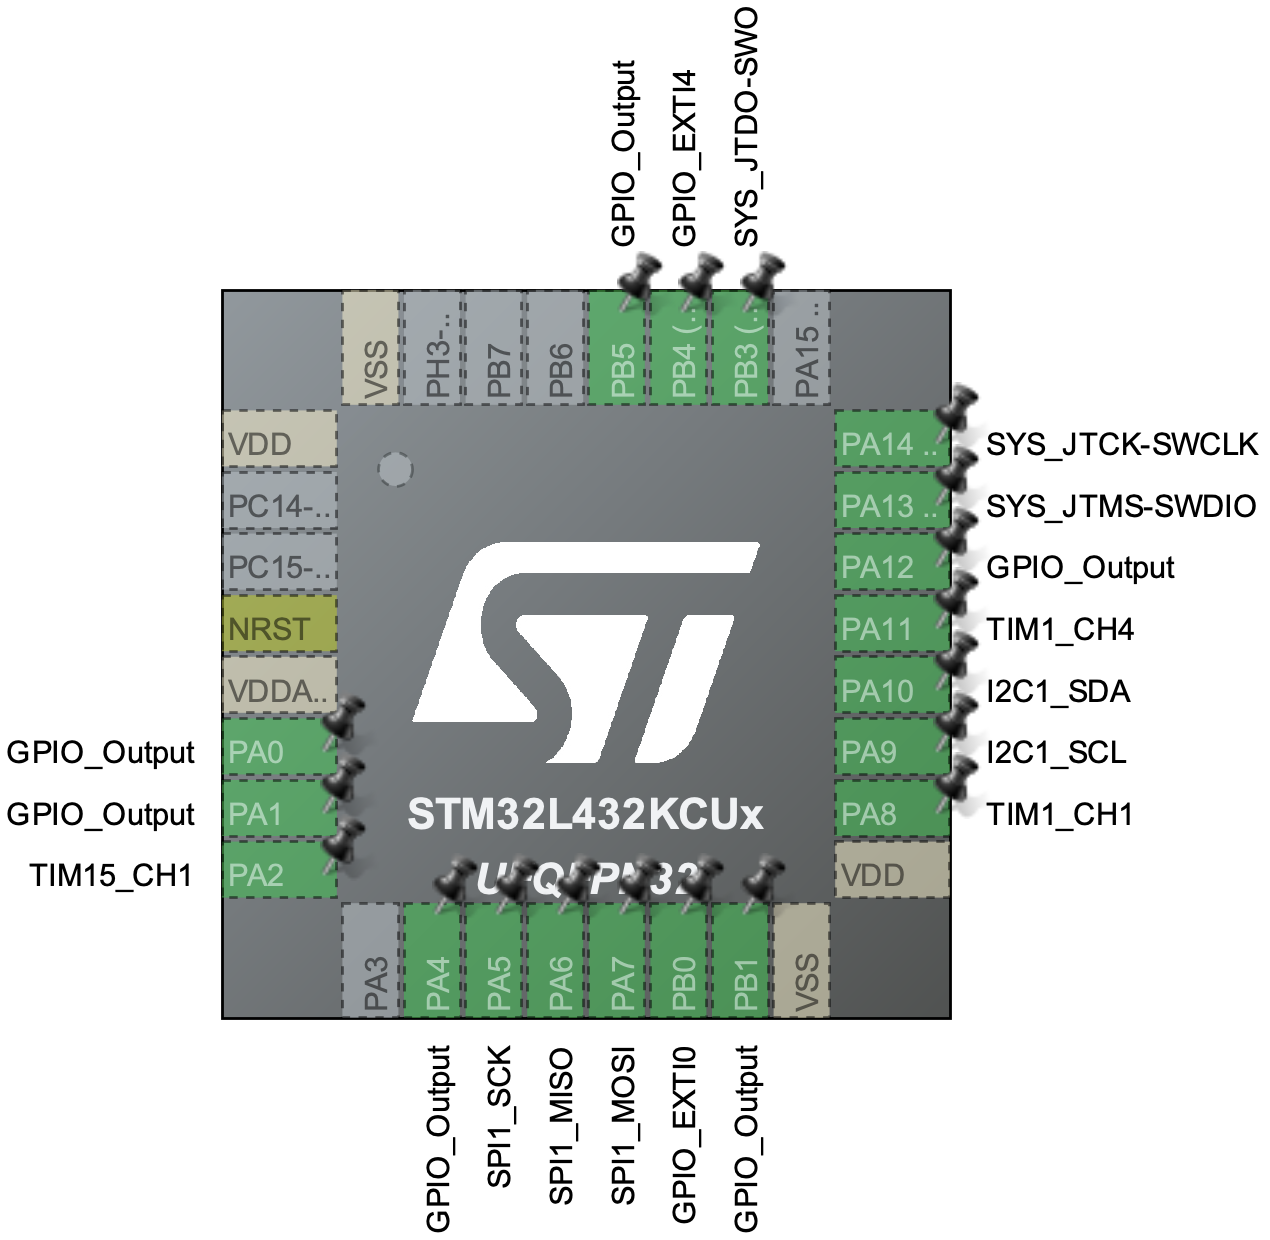
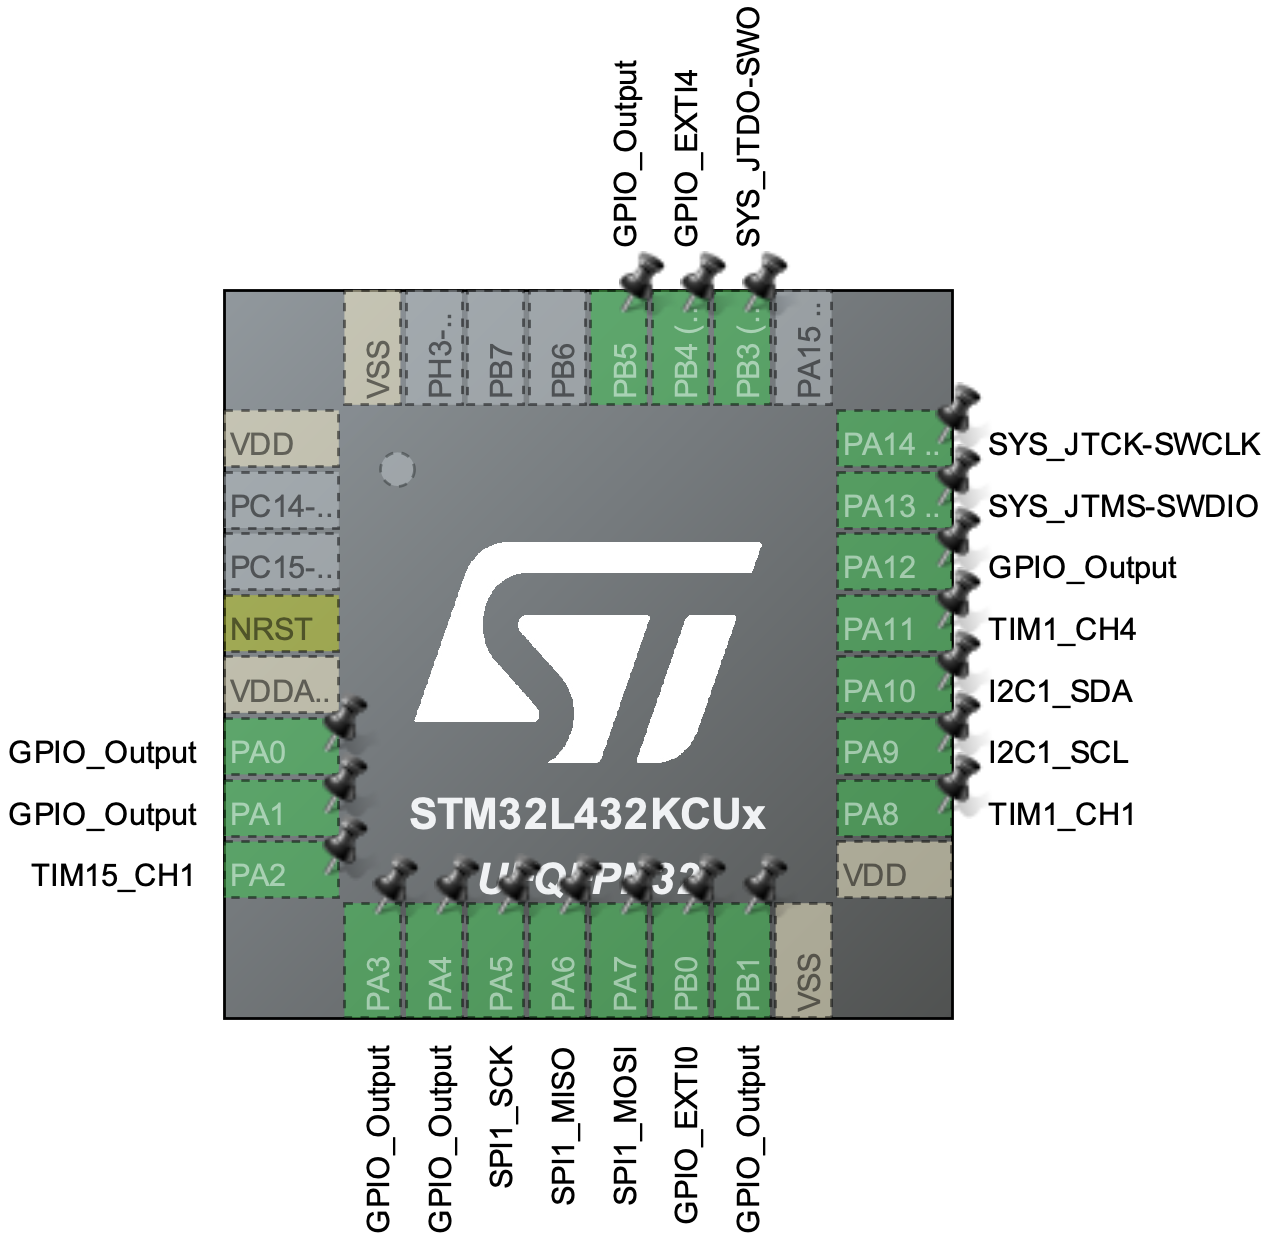
Update docs and pinout

diff --git a/README.md b/README.md
@@ -74,10 +74,14 @@ Terrain and maze solving robot for mechatronics design university course
 | PB1         | `GPIO_Output`           | Set high                       | BNO085 Pin 6: `PS0/Wake`         | Pull low to trigger wake. |
 |             |                         | Hardware pull-up               | BNO085 Pin 5: `PS1`              |                           |
 | PA1         | `GPIO_Output`           | Set high                       | BNO085 Pin 11: `NRST`            | Pull low to reset.        |
-| PB4         | `GPIO_EXTI4`            | Hardware pull-up, falling edge | VL53L4CD Pin 7: `GPIO1`          |                           |
-| PB5         | `GPIO_Output`           | Hardware pull-up               | VL53L4CD Pin 5: `XSHUT`          |                           |
 | PA9         | `I2C1_SCL`              |                                | VL53L4CD Pin 10: `SCL`           |                           |
 | PA10        | `I2C1_SDA`              |                                | VL53L4CD Pin 9: `SDA`            |                           |
+| PB4         | `GPIO_EXTI4`            | Hardware pull-up, falling edge | VL53L4CD (1 of 3) Pin 7: `GPIO1` |                           |
+| PB5         | `GPIO_Output`           | Hardware pull-up               | VL53L4CD (1 of 3) Pin 5: `XSHUT` |                           |
+|             |                         | Hardware pull-up, falling edge | VL53L4CD (2 of 3) Pin 7: `GPIO1` |                           |
+| PA3         | `GPIO_Output`           | Hardware pull-up               | VL53L4CD (2 of 3) Pin 5: `XSHUT` |                           |
+|             |                         | Hardware pull-up               | VL53L4CD (3 of 3) Pin 7: `GPIO1` |                           |
+|             |                         | Hardware pull-up               | VL53L4CD (3 of 3) Pin 5: `XSHUT` |                           |
 | PA8         | `TIM1_CH1`              | PWM output                     | TB6612FNG Board Pin x: `PWMA`    |                           |
 | PA11        | `TIM1_CH4`              | PWM output                     | TB6612FNG Board Pin x: `PWMB`    |                           |
 | PA12        | `GPIO_Output`           |                                | TB6612FNG Board Pin x: `DIR_A1`  |                           |
